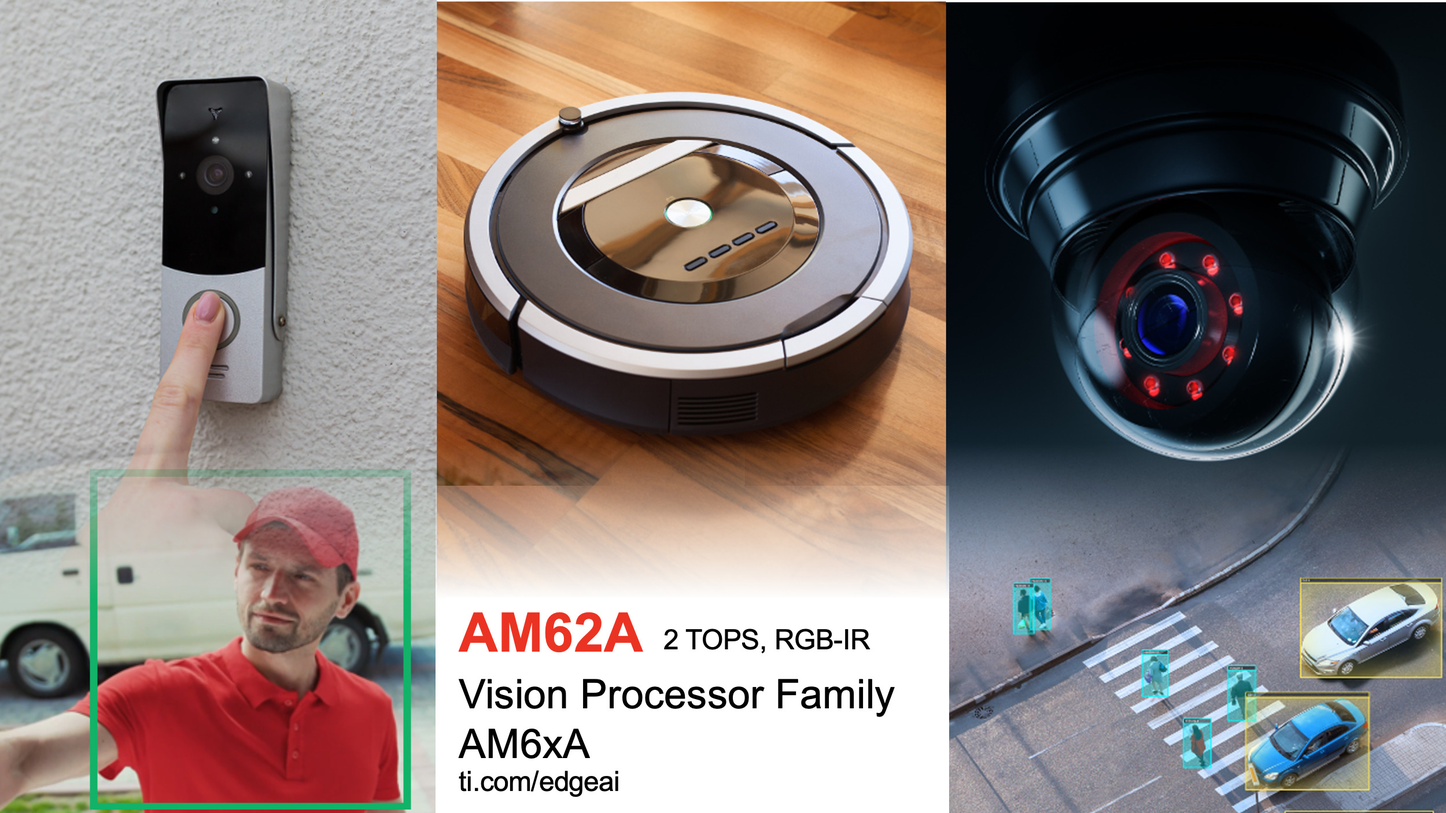
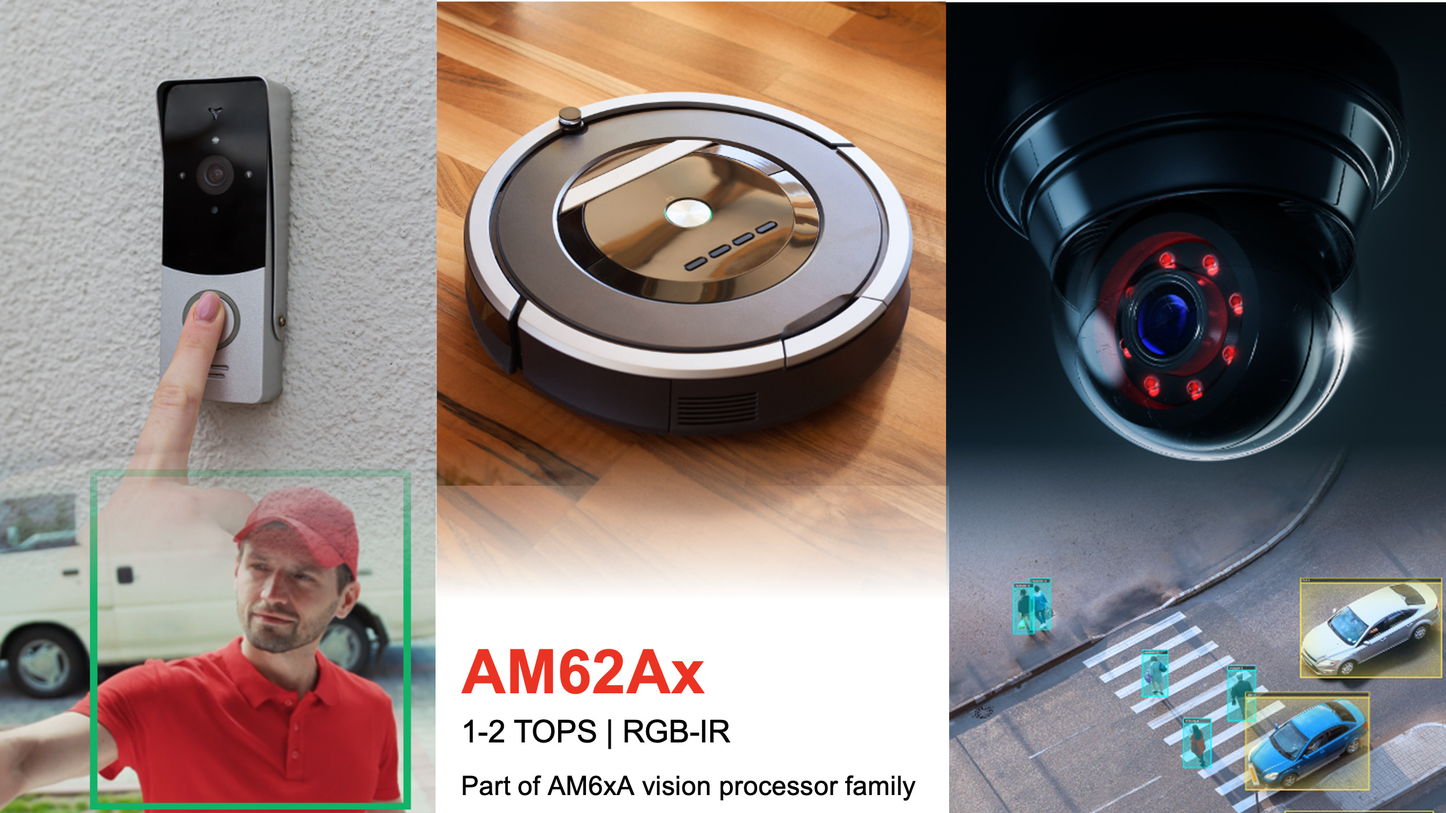
AM62A: BG Image change
- Update Background Image
- Add Web link for ti.com/edgeai in the bottomBar

Changed region(s): [[0.312, 0.734, 0.624, 0.9787]]

diff --git a/main.qml b/main.qml
@@ -563,7 +563,7 @@ Window {
             color: "#17252A"
             Text {
                 id: info1
-                text: "<font color=\"#FEFFFF\">Support: </font><font color=\"#5555FF\">https://e2e.ti.com/</font>"
+                text: "<font color=\"#FEFFFF\">Web: </font><font color=\"#5555FF\">https://ti.com/edgeai</font><font color=\"#FEFFFF\"> | Support: </font><font color=\"#5555FF\">https://e2e.ti.com/</font>"
                 font.pointSize: 15
                 anchors.verticalCenter: parent.verticalCenter
             }
